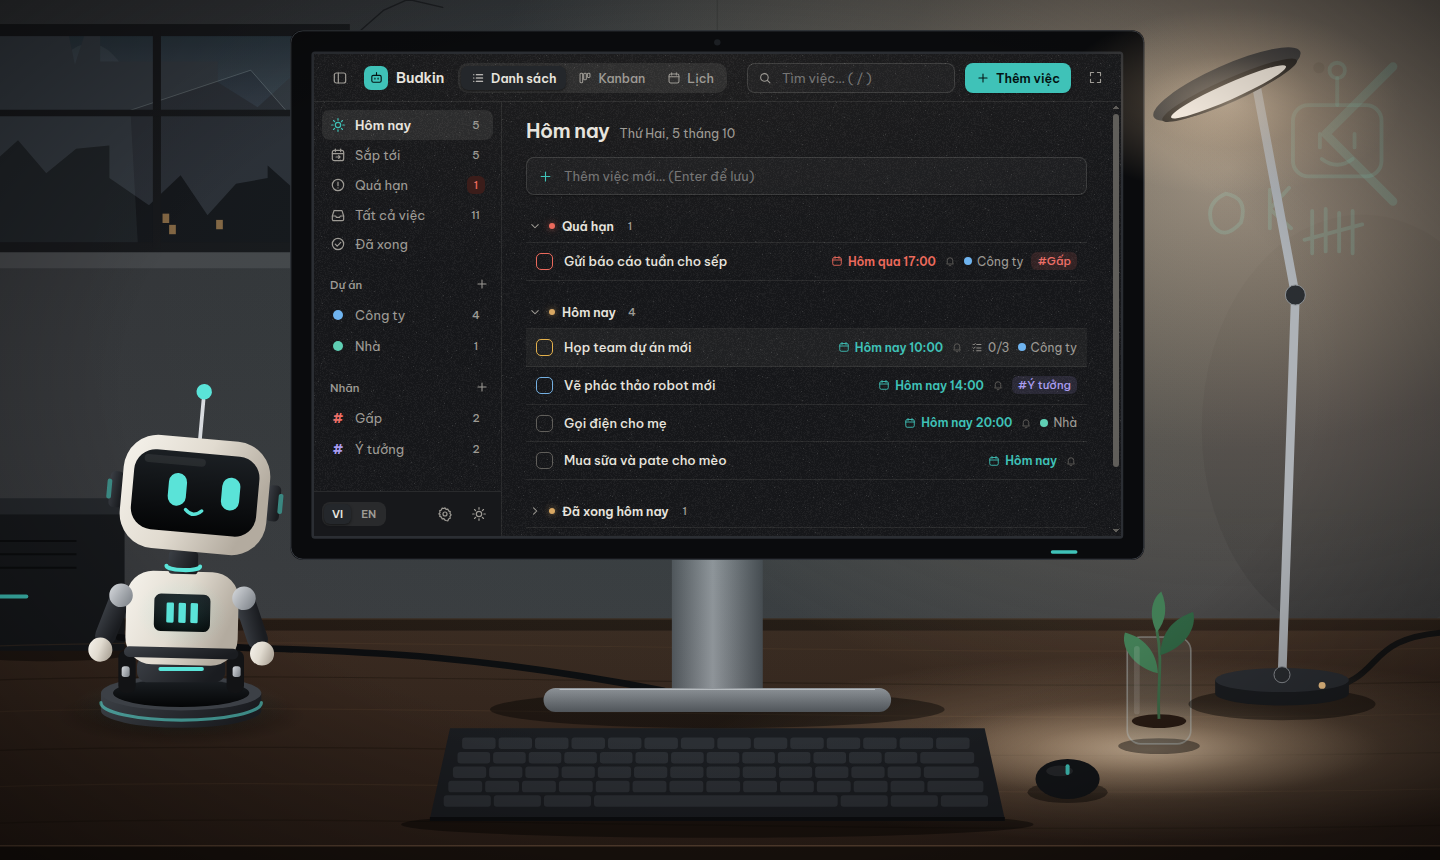
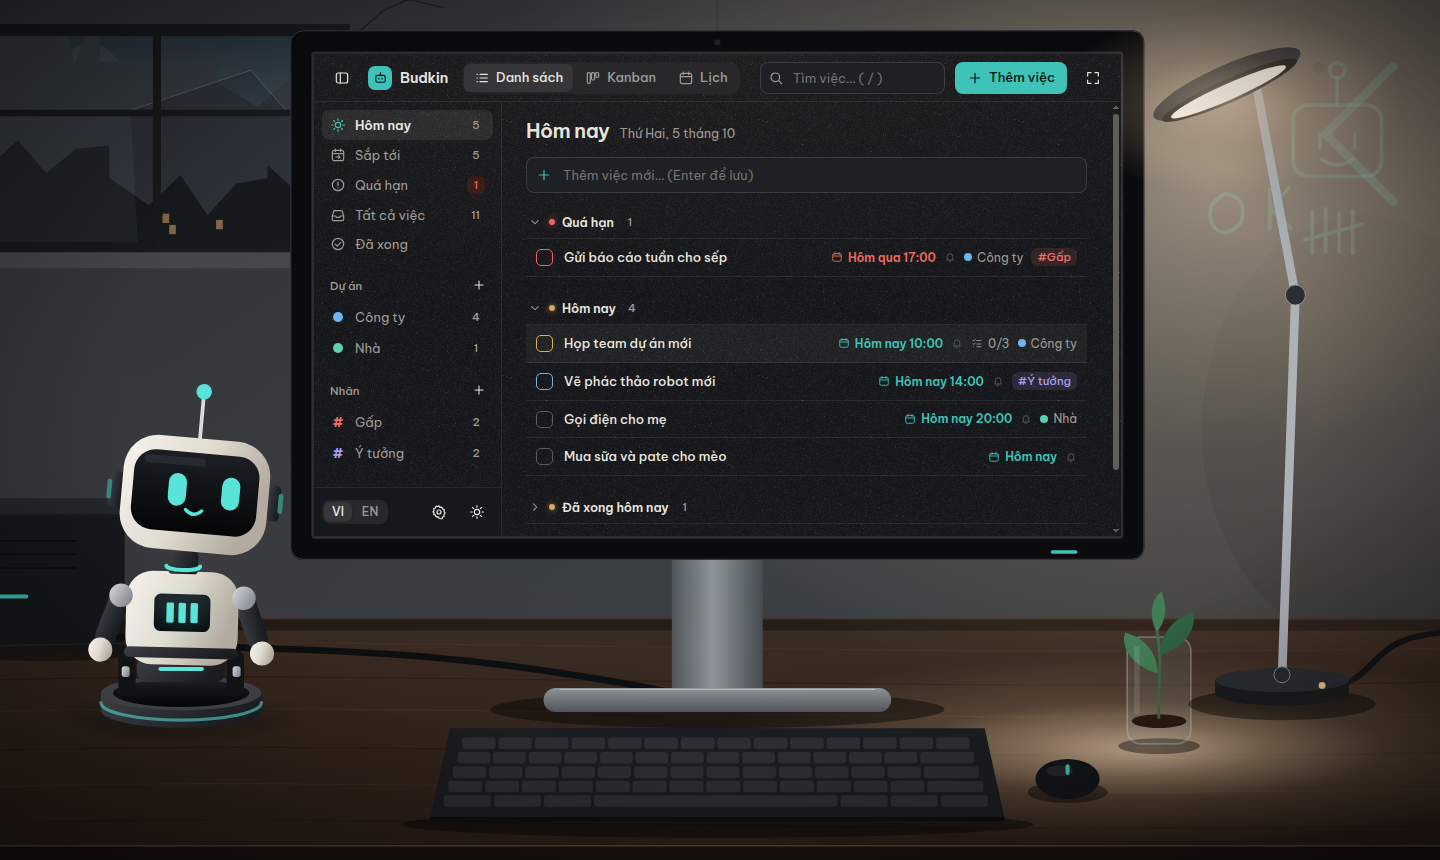
Toast, hộp thoại, thẻ đang kéo của momi-ui nằm trong màn hình máy tính; README, dọn dnd-kit
- .screen thêm contain: layout: container-type không làm .screen thành khung chứa của phần tử position: fixed, nên
  toast (cạnh dưới cửa sổ, đè lên bàn phím trong cảnh), lớp phủ của hộp thoại (tối cả cảnh 3D) đều tính theo cửa sổ
- E2E: toast và hộp xác nhận phải nằm trọn trong màn hình máy tính
- Gỡ @dnd-kit/sortable, @dnd-kit/utilities (Kanban dùng momi-ui; Lịch chỉ còn cần @dnd-kit/core)
- README: phần Kiến trúc nói về momi-ui (layer legacy, momi-theme.css, PortalProvider, sửa momi-ui cùng lúc)
- Chụp lại ảnh giới thiệu với giao diện mới

diff --git a/scripts/e2e-smoke.ts b/scripts/e2e-smoke.ts
@@ -763,6 +763,14 @@ async function dragTo(page: Page, from: { x: number; y: number }, to: { x: numbe
   await page.mouse.up()
 }
 
+/** Phần tử nằm trọn trong màn hình máy tính (toast, hộp thoại… không được phủ lên cảnh 3D / 2D xung quanh) */
+async function insideScreen(page: Page, selector: string): Promise<boolean> {
+  const box = await page.locator(selector).first().boundingBox()
+  const screen = await page.locator('.screen').boundingBox()
+  if (!box || !screen) return false
+  return box.x >= screen.x - 1 && box.y >= screen.y - 1 && box.x + box.width <= screen.x + screen.width + 1 && box.y + box.height <= screen.y + screen.height + 1
+}
+
 async function centerOf(page: Page, selector: string): Promise<{ x: number; y: number }> {
   // Cột / ô lịch có thanh cuộn riêng: đưa phần tử vào tầm nhìn trước
   await page.locator(selector).first().scrollIntoViewIfNeeded()
@@ -902,6 +910,7 @@ async function dataFlow(app: ElectronApplication, page: Page): Promise<void> {
   await value(page, 'tasks:create', { title: 'Việc thêm sau khi sao lưu' })
   await press(manual.getByRole('button', { name: 'Khôi phục' }))
   const closed = app.waitForEvent('close')
+  assert(await until(() => insideScreen(page, '.modal')), 'hộp xác nhận nằm trong màn hình máy tính')
   await press(page.locator('.modal').getByRole('button', { name: 'Khôi phục' }))
   await closed
   assert(true, 'khôi phục: Budkin đóng lại để thay dữ liệu')
@@ -979,6 +988,7 @@ async function aiFlow(page: Page): Promise<void> {
     'việc Claude tạo hiện ngay trong Budkin'
   )
   assert(await until(async () => (await toasts()).includes('Claude đã thêm 2 việc')), 'toast "Claude đã thêm 2 việc" kèm nút Hoàn tác')
+  assert(await until(() => insideScreen(page, TOAST)), 'toast nằm trong màn hình máy tính (không phủ lên cảnh xung quanh)')
   await page.keyboard.press('Escape')
   await press(page.locator(TOAST, { hasText: 'Claude đã thêm 2 việc' }).getByRole('button', { name: 'Hoàn tác' }))
   assert(

diff --git a/src/renderer/src/styles/app.css b/src/renderer/src/styles/app.css
@@ -50,6 +50,9 @@ body {
   background-image: var(--screen-light), var(--grain);
   container-type: size;
   container-name: screen;
+  /* Khung chứa của mọi phần tử position: fixed bên trong (container-type không làm việc này): toast, hộp thoại, thẻ
+     đang kéo của momi-ui (vẽ vào đây qua PortalProvider) nằm trong màn hình máy tính, không phủ lên cả cảnh */
+  contain: layout;
 }
 
 /* Thanh cuộn mảnh theo màu theme (thanh mặc định của Chromium quá dày trên màn hình nhỏ) */
@@ -276,7 +279,8 @@ body {
   color: var(--bk-accent-2);
 }
 
-/* Popover, menu nổi: ngoài .screen (container query làm position: fixed bên trong bị tính theo .screen) */
+/* Việc đang kéo trên Lịch (DragOverlay của dnd-kit, toạ độ theo cửa sổ): ngoài .screen. Menu, popover, hộp thoại,
+   toast của momi-ui thì vẽ bên trong .screen (PortalProvider) */
 #portal-root {
   position: fixed;
   inset: 0;
